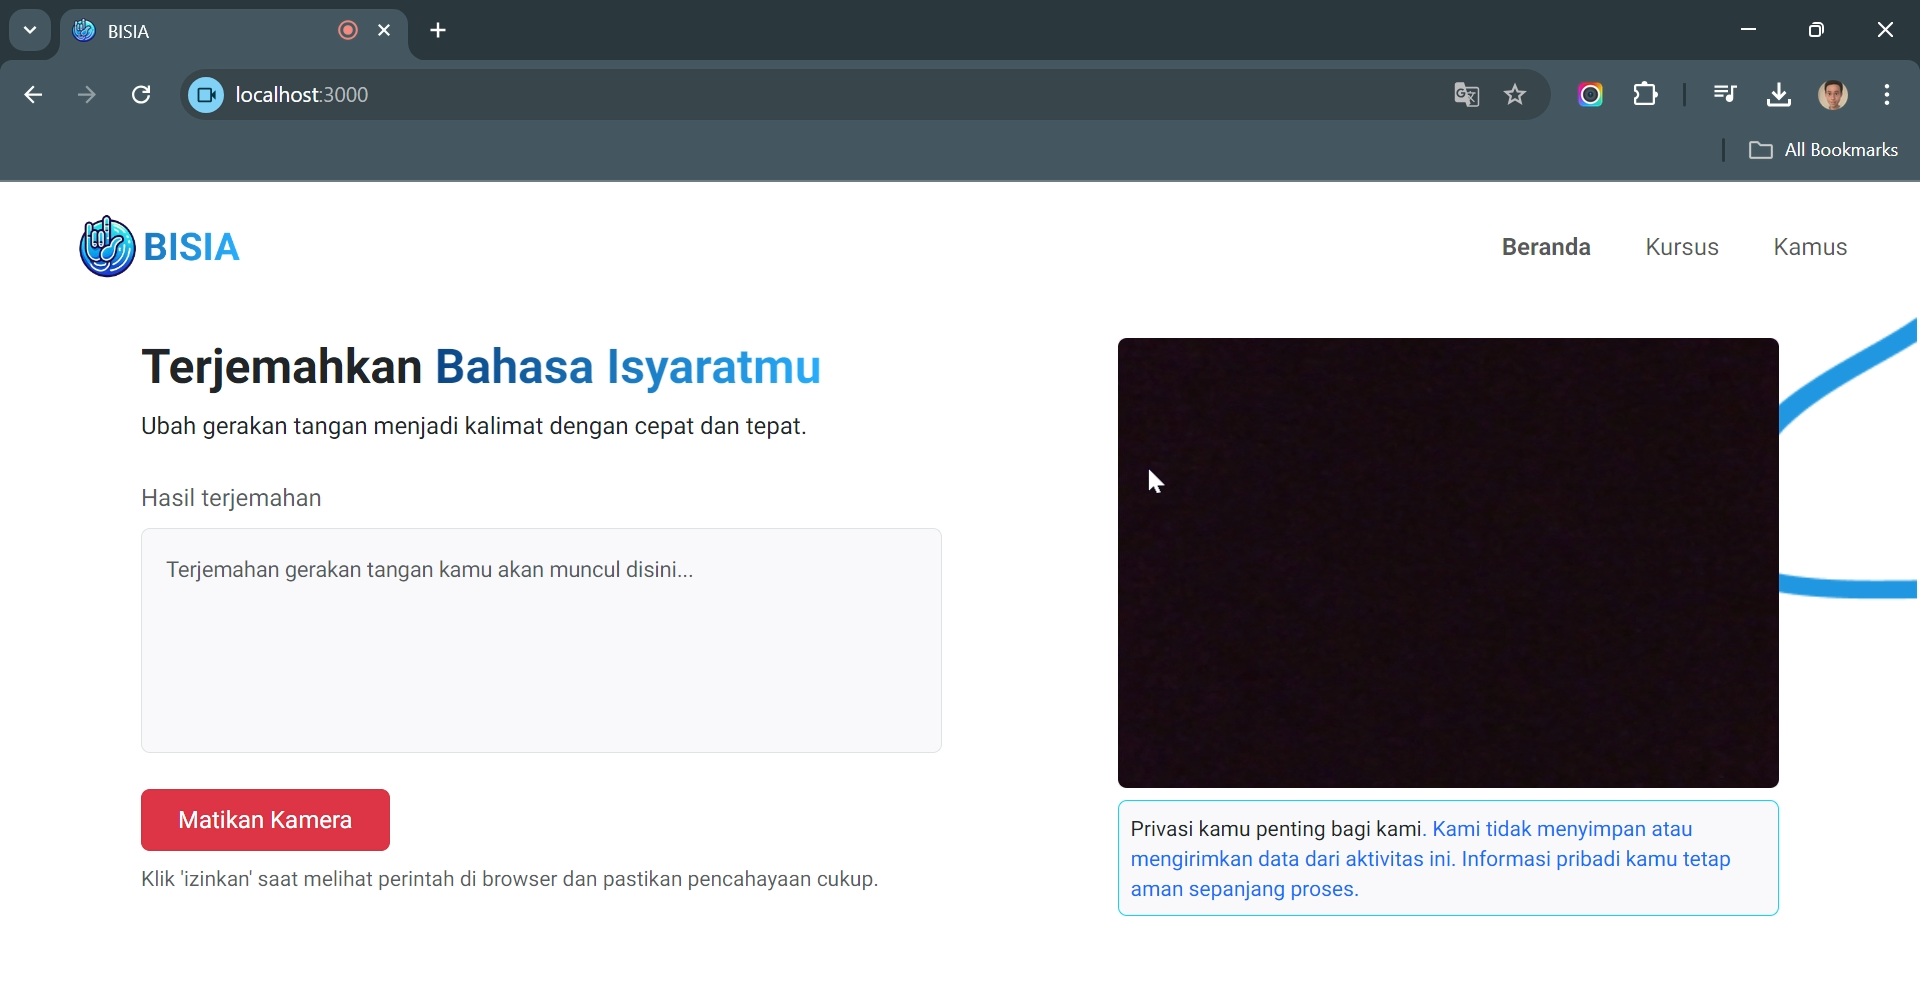
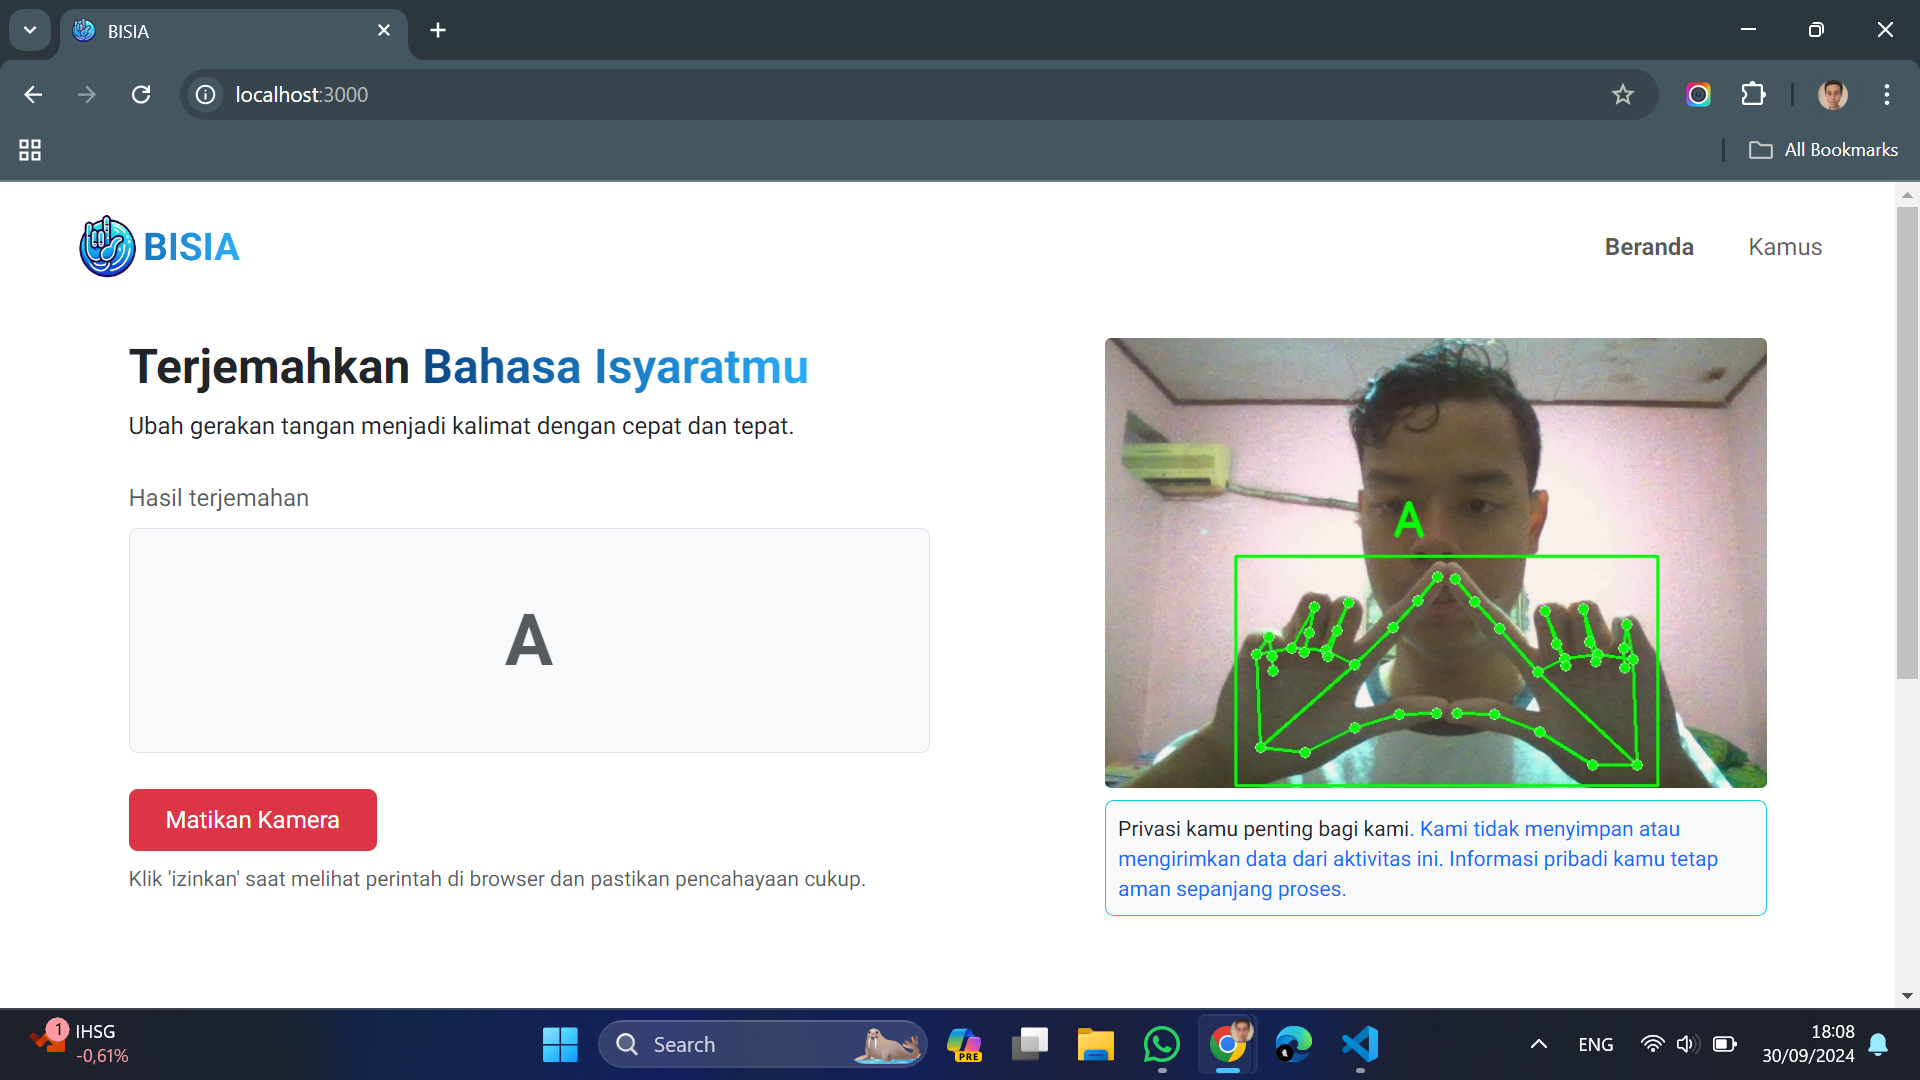
Perbarui Screeshoot Github

diff --git a/frontend/src/App.js b/frontend/src/App.js
@@ -3,7 +3,6 @@ import React from 'react';
 import { Routes, Route } from 'react-router-dom';
 import NavBar from './components/NavBar';
 import Home from './pages/Home';
-import Courses from './pages/Courses';
 import Dictionary from './pages/Dictionary';
 import 'bootstrap/dist/css/bootstrap.min.css'; 
 import './App.css';
@@ -15,7 +14,6 @@ function App() {
       <div className="container mt-5">
         <Routes>
           <Route path="/" element={<Home />} />           {/* Home Page */}
-          <Route path="/courses" element={<Courses />} /> {/* Courses Page */}
           <Route path="/dictionary" element={<Dictionary />} /> {/* Dictionary Page */}
         </Routes>
       </div>

diff --git a/frontend/src/components/NavBar.js b/frontend/src/components/NavBar.js
@@ -45,14 +45,6 @@ function NavBar() {
             <li className="nav-item">
               <NavLink 
                 className={({ isActive }) => isActive ? 'nav-link fw-bolder' : 'nav-link'} 
-                to="/courses"
-              >
-                Kursus
-              </NavLink>
-            </li>
-            <li className="nav-item">
-              <NavLink 
-                className={({ isActive }) => isActive ? 'nav-link fw-bolder' : 'nav-link'} 
                 to="/dictionary"
               >
                 Kamus
